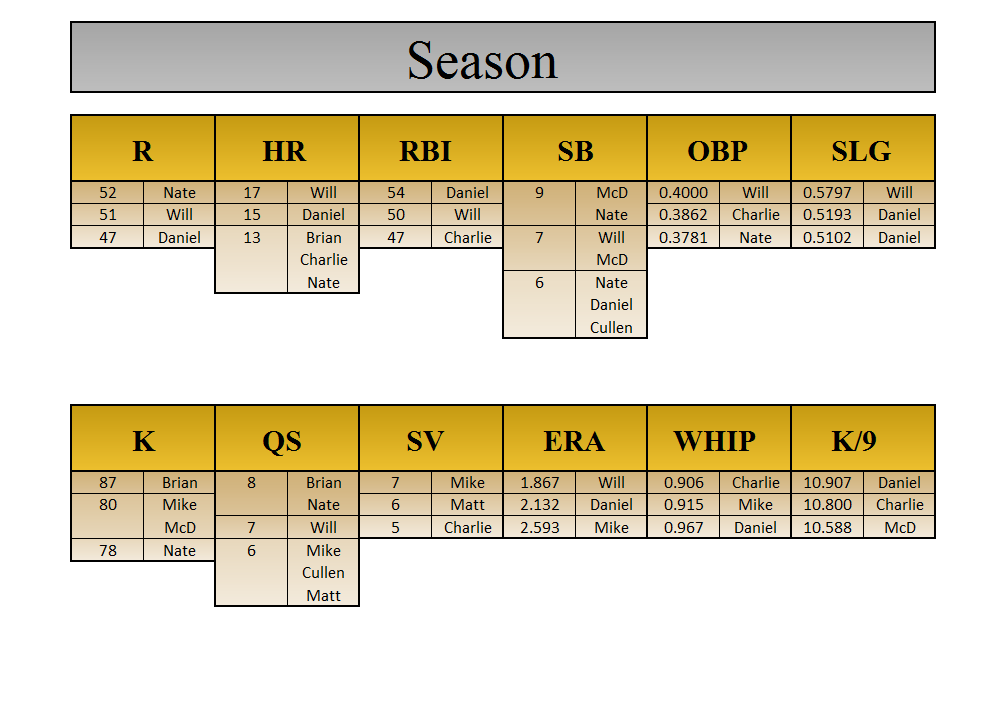
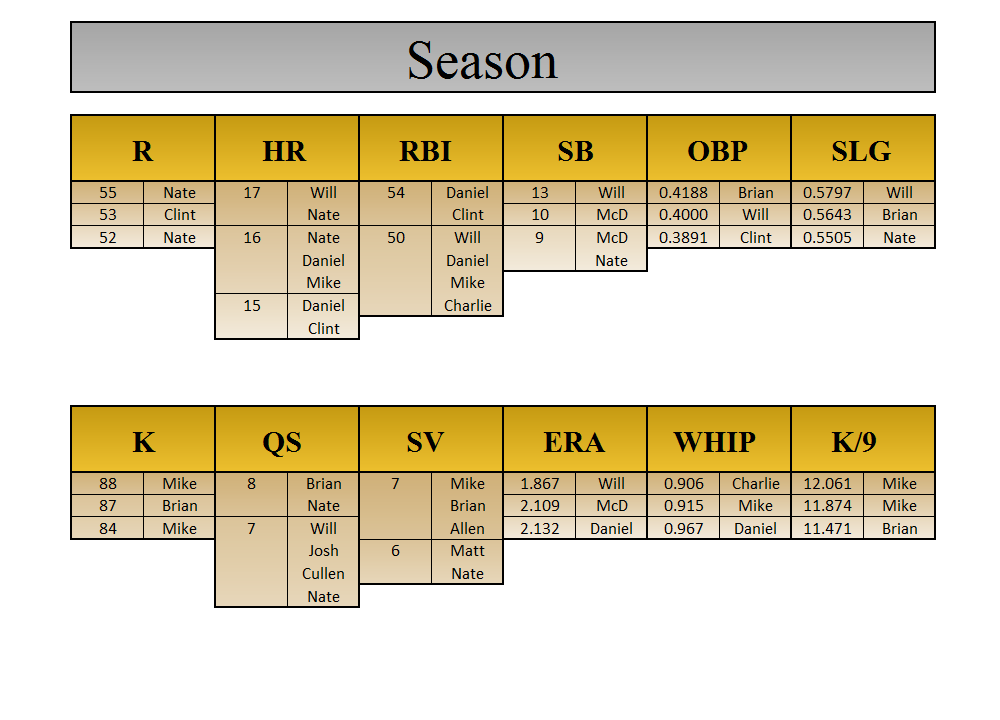
Add files via upload

diff --git a/Team Stats/PlottingStats.js b/Team Stats/PlottingStats.js
@@ -1,8 +1,5 @@
 var ctx = document.getElementById("myChart").getContext('2d');
 
-var test_labels = ["2009","2010","2011","2012","2013","2014","2015"]
-
-
 var stats_options = {
   scales: {
     xAxes: [{
@@ -30,22 +27,24 @@ var stats_options = {
   }
 }
 
-
-
+// Setting all the Initial Components
+//----------------------------------------------------------------
 var TeamsboolArray = [true,false,false,false,false,false,false,false,false,false,false,false,false,false]
 var StatsboolArray = [true,false,false,false,false,false,false,false,false,false,false,false,false,false]
+var AVGbool = true
 
 var AllTeamsMat = GetAllTeams()
-console.log(AllTeamsMat[0])
-
+var AvgMat = GetAvg()
 var week = GetWeek()
 
 var Week_Labels = WeekLabels(week)
 
-NewDataSet = CreateData(TeamsboolArray,StatsboolArray,AllTeamsMat,week,Week_Labels);
+NewDataSet = CreateData(TeamsboolArray,StatsboolArray,AllTeamsMat,week,Week_Labels,AVGbool,AvgMat);
 CreatePlot(NewDataSet);
 
 
+// Defining Functions
+//-----------------------------------------------------------------
 function CorrectTeamIndex(num){
     var correct = [2,0,1,11,6,3,9,8,7,5,4,10]
     var correct_num = correct[num]
@@ -79,6 +78,28 @@ function CreateDataset(team_num,data_array){
     return dataset
 }
 
+function CreateAvgDataset(data_array){
+    var fill_color = 'rbga(255,0,0,.1)'
+
+    var dataset ={
+    label: 'League Average',
+    data: data_array,
+    backgroundColor: fill_color,
+    borderColor: 'red', // The main line color
+    borderWidth: 1.5,
+    fill: false,
+    pointBorderColor: "red",
+    pointBorderWidth: 2.5,
+    pointHoverRadius: 12.5,
+    pointHoverBackgroundColor: "white",
+    pointHoverBorderColor: "red",
+    pointHoverBorderWidth: 4,
+    pointRadius: 8,
+    pointHitRadius: 25,
+    }
+    return dataset
+}
+
 
 function CreatePlot(d){
     myChart = new Chart(ctx, {
@@ -96,19 +117,41 @@ function CreateTeamDataArray(team_index,StatsBool,All,week){
                 stats_array.push(All[team_index][i][j])
         }
     }
-    console.log(stats_array)
     return stats_array
+}
+
+function CreateAvgArray(StatsBool,AVG,week){
+    var avg_array = []
+    for ( var i = 0; i < StatsBool.length; i++ ) {
+        if( StatsBool[i] === true ){
+            for(var j=0; j<week; j++)
+                avg_array.push(AVG[i][j])
+        }
+    }
+    return avg_array
 }
 
 function ToggleReset(){
     myChart.destroy();
     TeamsboolArray = [false,false,false,false,false,false,false,false,false,false,false,false,false,false]
     StatsboolArray = [false,false,false,false,false,false,false,false,false,false,false,false,false,false]
-    NewDataSet = CreateData(TeamsboolArray,StatsboolArray,AllTeamsMat,week,Week_Labels);
+    AVGbool = false
+    NewDataSet = CreateData(TeamsboolArray,StatsboolArray,AllTeamsMat,week,Week_Labels,AVGbool,AvgMat);
     CreatePlot(NewDataSet);
 }
 
-function CreateData(TeamsBool,StatsBool,All,week,Wlabels) {
+function ToggleAVG(){
+    myChart.destroy();
+    if(AVGbool === true){
+        AVGbool = false
+    }else{
+        AVGbool = true
+    }
+    NewDataSet = CreateData(TeamsboolArray,StatsboolArray,AllTeamsMat,week,Week_Labels,AVGbool,AvgMat);
+    CreatePlot(NewDataSet);
+}
+
+function CreateData(TeamsBool,StatsBool,All,week,Wlabels,AvgBool,AVG) {
     var NewDataset = []
     for ( var i = 0; i < TeamsBool.length; i++ ) {
         if( TeamsBool[i] === true ){
@@ -117,6 +160,11 @@ function CreateData(TeamsBool,StatsBool,All,week,Wlabels) {
             var team_dataset = CreateDataset(i,d_array)
             NewDataset.push(team_dataset)
         }
+    }
+    if(AvgBool === true){
+        var a_array = CreateAvgArray(StatsBool,AVG,week)
+        var a_dataset = CreateAvgDataset(a_array)
+        NewDataset.push(a_dataset)
     }
     var NewData = {
     labels: Wlabels,
@@ -147,14 +195,14 @@ function ToggleStatBool(num){
 function ToggleTeamPlot(num) {
     myChart.destroy();
     ToggleTeamBool(num,TeamsboolArray);
-    NewDataSet = CreateData(TeamsboolArray,StatsboolArray,AllTeamsMat,week,Week_Labels);
+    NewDataSet = CreateData(TeamsboolArray,StatsboolArray,AllTeamsMat,week,Week_Labels,AVGbool,AvgMat);
     CreatePlot(NewDataSet);
 }
 
 function ToggleStatPlot(num){
     myChart.destroy();
     StatsboolArray = ToggleStatBool(num);
-    NewDataSet = CreateData(TeamsboolArray,StatsboolArray,AllTeamsMat,week,Week_Labels);
+    NewDataSet = CreateData(TeamsboolArray,StatsboolArray,AllTeamsMat,week,Week_Labels,AVGbool,AvgMat);
     CreatePlot(NewDataSet);
 }
 

diff --git a/Team Stats/TeamStats.js b/Team Stats/TeamStats.js
@@ -1,4 +1,4 @@
-var week = 4  //Needs to be updted weekly
+var week = 5  //Needs to be updted weekly
 
 var Week1Stats = [
 [51,	17,	55,	6,	0.3085,	0.4108,	59,		5,	5,	3.553,	1.326,	8.384],
@@ -59,6 +59,20 @@ var Week4Stats = [
 [55,	16,	48,	5,	0.3697,	0.5505,	80,	4,	6,	3.857,	1.020,	10.640],
 [49,	12,	32,	7,	0.3112,	0.4321,	39,	4,	3,	5.694,	1.490,	7.163]
 ]
+var Week5Stats = [
+[38,	14,	44,	6,	0.3197,	0.4812,	47,	3,	3,	4.478,	1.434,	6.190],
+[47,	11,	26,	5,	0.3722,	0.4774,	65,	5,	2,	3.176,	1.157,	11.471],
+[44,	11,	44,	4,	0.3175,	0.4181,	66,	6,	0,	4.371,	1.257,	8.486],
+[27,	8,	32,	4,	0.3054,	0.4059,	65,	7,	4,	2.712,	0.996,	7.664],
+[36,	8,	44,	1,	0.3505,	0.4751,	73,	6,	4,	2.109,	1.047,	10.266],
+[39,	12,	41,	0,	0.3121,	0.4758,	54,	4,	1,	3.947,	1.351,	8.526],
+[45,	16,	50,	6,	0.3419,	0.5238,	88,	6,	5,	2.467,	0.990,	12.061],
+[36,	10,	34,	8,	0.3006,	0.4429,	82,	4,	4,	3.948,	1.344,	10.443],
+[33,	10,	27,	7,	0.3466,	0.4520,	66,	6,	7,	5.118,	1.464,	8.445],
+[40,	13,	50,	2,	0.3150,	0.4306,	56,	5,	4,	3.140,	1.081,	8.791],
+[40,	17,	32,	4,	0.2958,	0.4659,	62,	7,	3,	2.926,	1.108,	8.246],
+[42,	16,	50,	1,	0.2991,	0.4603,	59,	5,	2,	3.653,	1.059,	9.371]
+]
 
 //Need to have the correct number of matrices of data
 
@@ -66,7 +80,7 @@ var Week4Stats = [
 
 StatsMat =  CombineWeekStats(week)
 AllTeamsMat = AllTeamStats(StatsMat,week)
-
+AvgMat = GenerateAverages(StatsMat,week)
 
 
 function GetAllTeams(){
@@ -75,6 +89,10 @@ function GetAllTeams(){
 
 function GetWeek(){
 	return week
+}
+
+function GetAvg(){
+	return AvgMat
 }
 
 function AllTeamStats(Stats,WeekNumber){
@@ -96,6 +114,24 @@ function TeamStats(Stats,TeamNumber,WeekNumber){
 	}
 	return TeamStats
 }	
+
+function GenerateAverages(stats,week){
+	var averages = []
+	for(var i=0; i<12; i++){
+		var Avg = []
+		for(var j=0; j<week; j++){
+			var avg = 0
+			for(var k=0; k<12; k++){
+				avg = avg + stats[j][k][i]
+			}
+			avg = avg / 12.0
+			avg = avg.toFixed(3)
+			Avg.push(avg)
+		}
+		averages.push(Avg)
+	}
+	return averages
+}
 
 function CombineWeekStats(WeekNumber){
 	var AllWeeks = []
@@ -163,3 +199,5 @@ function CombineWeekStats(WeekNumber){
 	}
 	return AllWeeks
 }
+
+

diff --git a/Team Stats/Team Stats.html b/Team Stats/Team Stats.html
@@ -46,8 +46,9 @@
 				<script src="PlottingStats.js"></script>
 			</div>
 
-			<div class="ResetButton">
+			<div class="ExtraOptions">
 				<button type="button" onclick="ToggleReset()";>Reset</button>
+				<button type="button" onclick="ToggleAVG()";>Average</button>
 			</div>
 
 			<div class="TeamsButtons" align="center">

diff --git a/Team Stats/TeamStats.css b/Team Stats/TeamStats.css
@@ -63,13 +63,13 @@
     display: inline;
 }
 
-.ResetButton{
-    padding: 25% 0 0 0;
+.ExtraOptions{
+    padding: 23% 0 0 0;
     float: left;
 
 }
 
-.ResetButton button{
+.ExtraOptions button{
     background-color: rgba(255,255,255,.6); 
     border: 1px solid black;
     color: black; 

diff --git a/Matchups/Matchups_W5.html b/Matchups/Matchups_W5.html
@@ -48,7 +48,7 @@
 			<li class="Weeks_LI"><a class="Weeks_A" href="Matchups_W20.html">20</a></li>
 		</ul>
 
-		
+		<img class="Stats_Img" src=".././Matchups_Pics/Matchups_5.png">
 
 	</body>
 

diff --git a/Leaders/Leaders_W5.html b/Leaders/Leaders_W5.html
@@ -48,7 +48,7 @@
 			<li class="Weeks_LI"><a class="Weeks_A" href="Leaders_W20.html">20</a></li>
 		</ul>
 
-		
+		<img class="Stats_Img" src=".././Leaders_Pics/Leaders_5.png">
 
 	</body>
 
